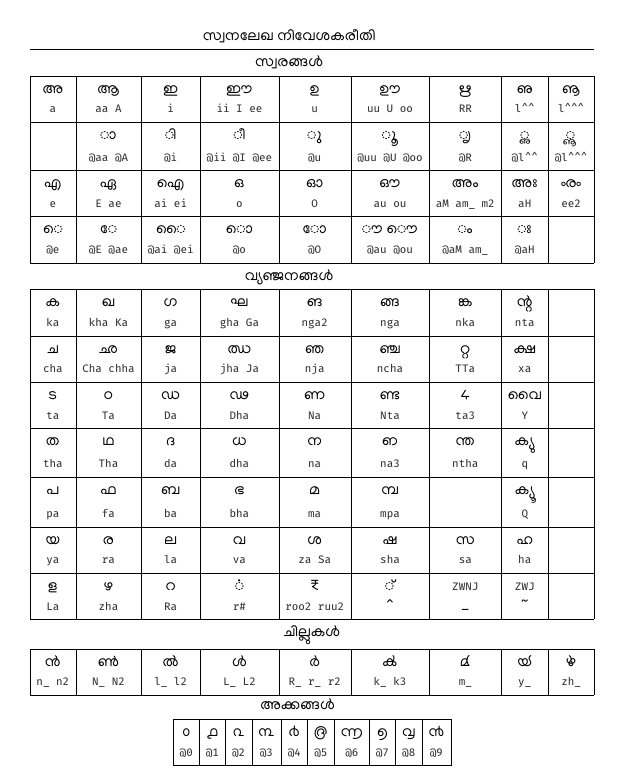
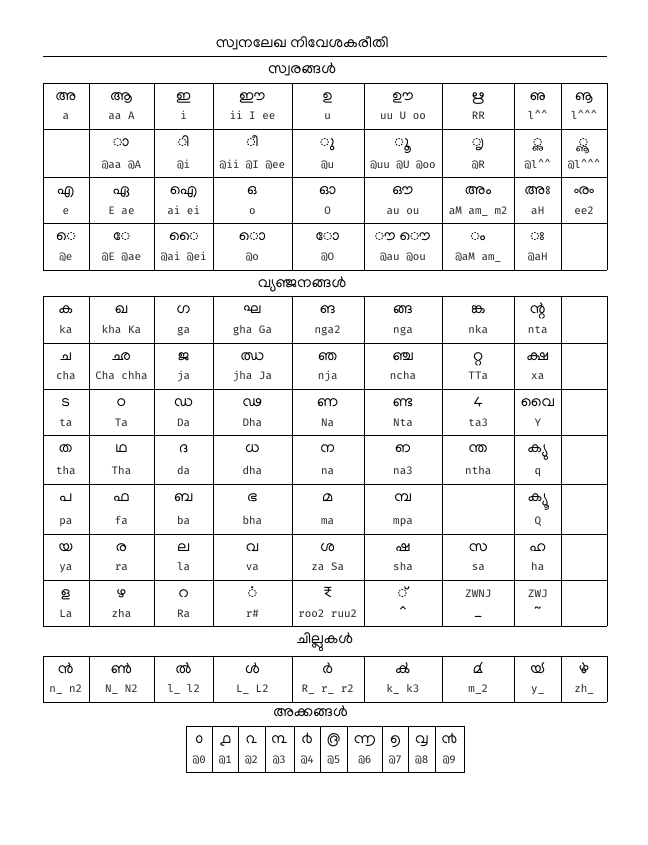
Correct the key documentation for Chillu m

Changed region(s): [[0.061, 0.031, 0.9454, 0.991], [0.8844, 0.8671, 0.9149, 0.8981]]

diff --git a/swanalekha.tex b/swanalekha.tex
@@ -36,13 +36,13 @@
 \multicolumn{8}{c}{സ്വരങ്ങള്}\\
 \hline
 അ & ആ & ഇ & ഈ & ഉ & ഊ & ഋ & ഌ & ൡ \\
-\en a &\en aa A &\en i &\en ii I ee &\en u &\en uu U oo 
+\en a &\en aa A &\en i &\en ii I ee &\en u &\en uu U oo
         &\en RR & \en l\mhat\mhat & \en l\mhat\mhat\mhat \\
 \hline
     & ാ & ി & ീ & ു & ൂ & ൃ & ൢ & ൣ \\
 \en  &\en \at aa \at A &\en \at i &\en \at ii \at I \at ee &\en \at u &\en \at uu \at U \at oo
         &\en \at R & \en \at l\mhat\mhat &\en  \at l\mhat\mhat\mhat \\
-\hline 
+\hline
 എ & ഏ & ഐ & ഒ & ഓ & ഔ & അം & അഃ & ൟ \\
 \en e &\en E ae &\en ai ei &\en o &\en O &\en au ou &\en aM am\undchr\space m2 &\en aH & \en ee2 \\
 \hline
@@ -54,7 +54,7 @@
 ക & ഖ & ഗ & ഘ & ങ  & ങ്ങ & ങ്ക & ന്റ &\\
 \en ka &\en kha Ka &\en ga &\en gha Ga& \en nga2 & \en nga &
  \en nka & \en nta &\\
-\hline 
+\hline
 ച & ഛ & ജ & ഝ & ഞ & ഞ്ച & റ്റ  & ക്ഷ & \\
 \en cha & \en Cha chha &\en ja &\en jha Ja &\en nja &\en ncha & \en TTa &\en xa &\\
 \hline
@@ -63,7 +63,7 @@
 \hline
 ത & ഥ & ദ & ധ & ന & ഩ & ന്ത & ക്യു &\\
 \en tha &\en Tha &\en da &\en dha & \en na & \en na3 & \en ntha & \en q &\\
-\hline 
+\hline
 പ & ഫ & ബ & ഭ & മ & മ്പ &  & ക്യൂ  &\\
 \en pa&\en fa &\en ba&\en bha & \en ma &\en mpa& & \en Q &\\
 \hline
@@ -77,9 +77,9 @@
 \hline
 ന് & ണ് & ല് & ള് & ര് & ൿ & ൔ & ൕ & ൖ \\
 \en n\undchr \space n2 &\en N\undchr \space N2 &\en l\undchr \space l2 &\en L\undchr \space L2 &\en R\undchr \space r\undchr \space r2
-&\en k\undchr \space k3 & \en m\undchr & \en y\undchr & \en zh\undchr \\
+&\en k\undchr \space k3 & \en m\undchr 2 & \en y\undchr & \en zh\undchr \\
 \hline
-\end{tabular} 
+\end{tabular}
 
 \begin{tabular}{|c|c|c|c|c|c|c|c|c|c|}
 
@@ -88,12 +88,7 @@
 ൦ & ൧ & ൨ & ൩ & ൪ & ൫  & ൬  & ൭  & ൮ & ൯  \\
 \en \at0 & \en \at1 & \en \at2 & \en \at3 & \en \at4 & \en \at5 & \en \at6 & \en \at7 & \en \at8 & \en \at9 \\
 \hline
-\end{tabular} 
-
-\begin{itemize}
-\item Website: \url{https://swanalekha.smc.org.in}
-\item Developer: Santhosh Thottingal <santhosh.thottingal@gmail.com>
-\end{itemize}
+\end{tabular}
 
 \end{document}
 
